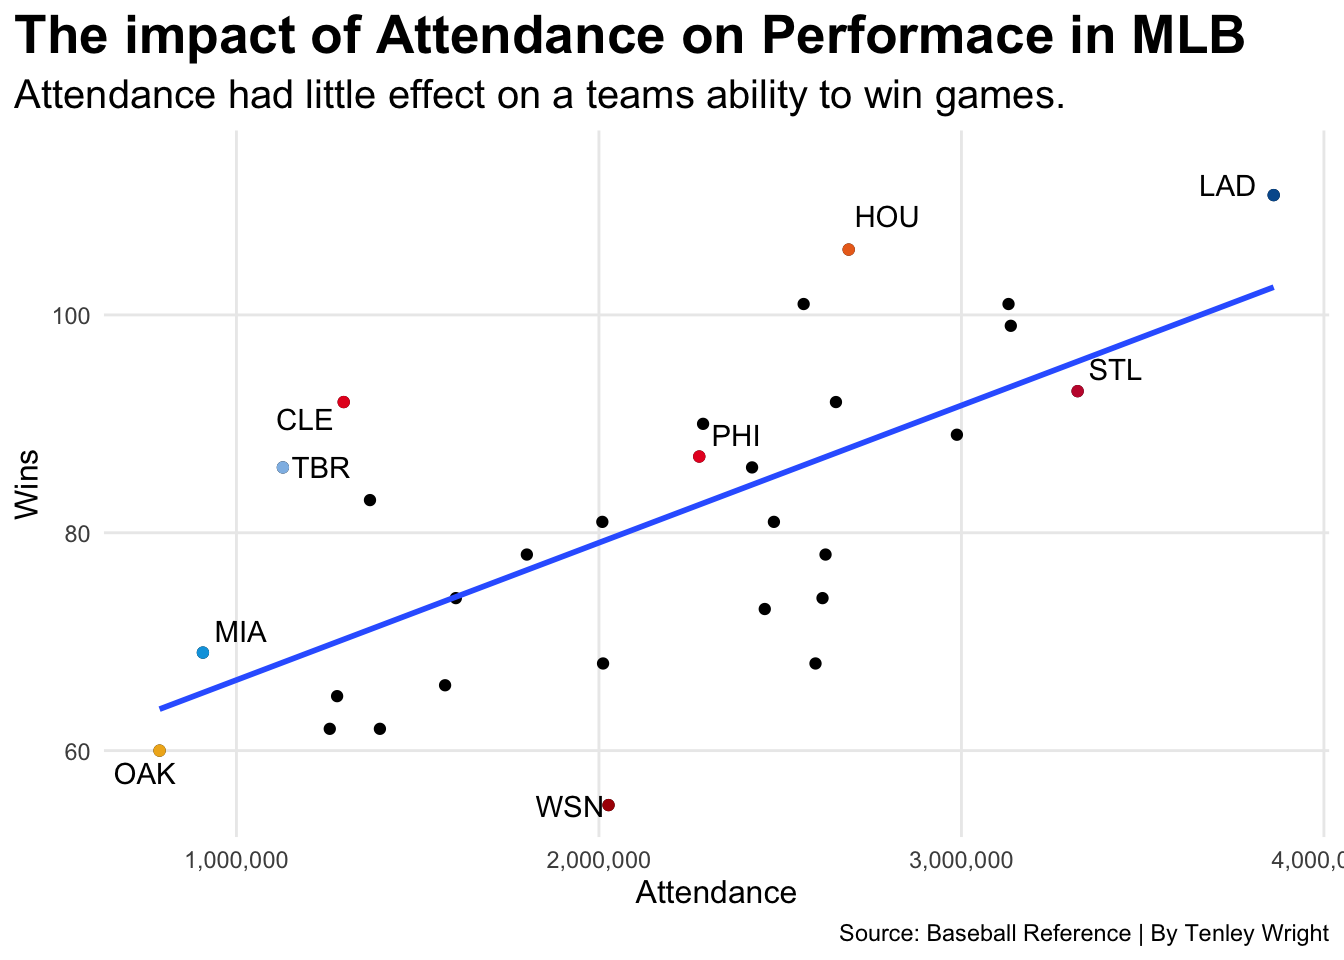
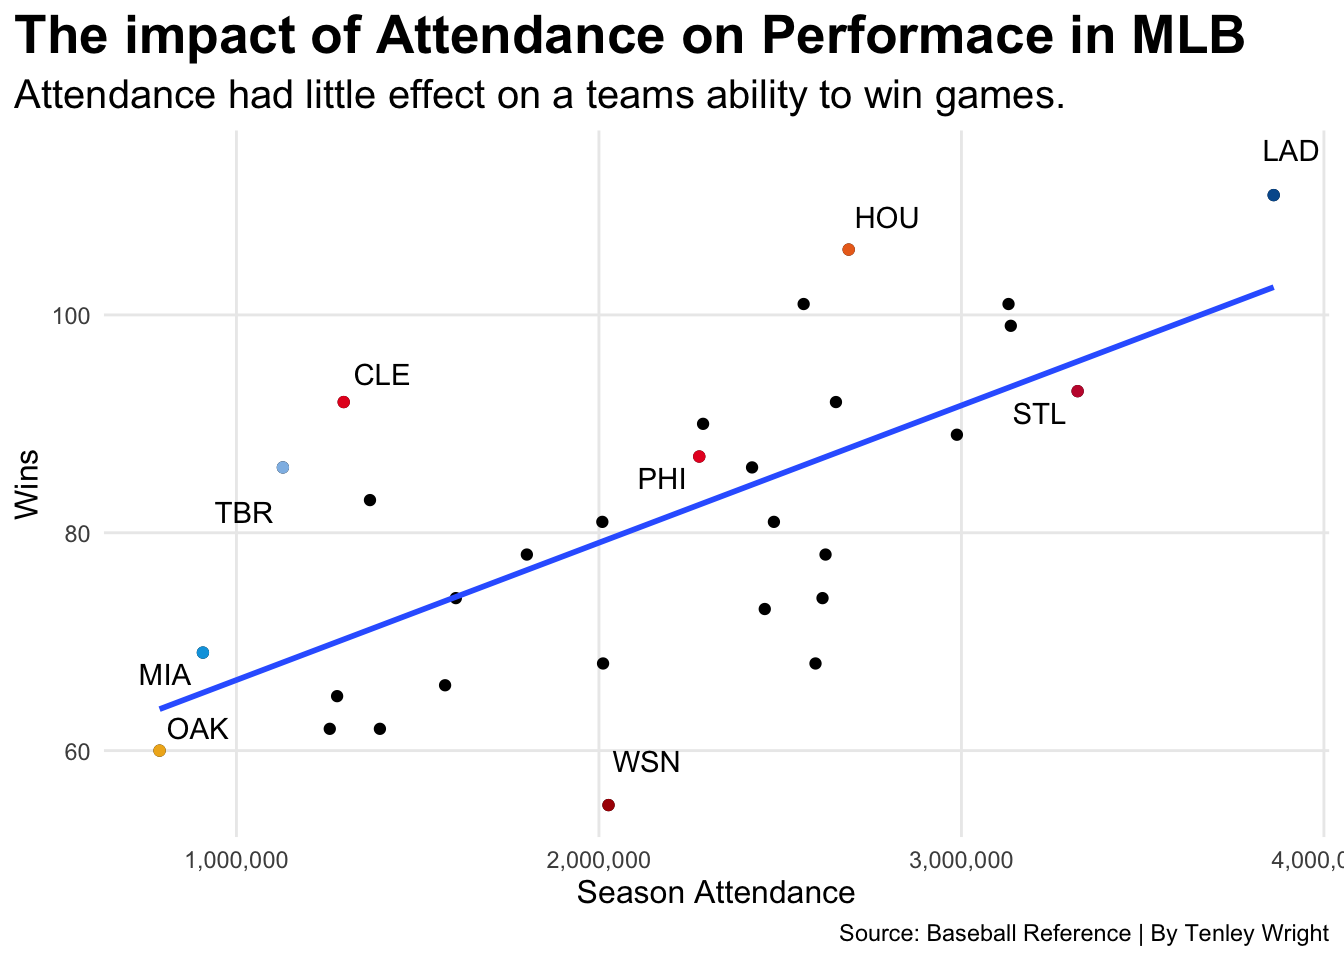
FINAL??
im so done with this

diff --git a/posts/does-attendance-impact-performace-in-the-mlb/index.html b/posts/does-attendance-impact-performace-in-the-mlb/index.html
@@ -294,7 +294,7 @@ code span.wa { color: #60a0b0; font-weight: bold; font-style: italic; } /* Warni
 <span id="cb1-70"><a href="#cb1-70" aria-hidden="true" tabindex="-1"></a>  <span class="fu">coord_flip</span>()<span class="sc">+</span></span>
 <span id="cb1-71"><a href="#cb1-71" aria-hidden="true" tabindex="-1"></a>  <span class="fu">labs</span>(</span>
 <span id="cb1-72"><a href="#cb1-72" aria-hidden="true" tabindex="-1"></a>    <span class="at">x=</span><span class="st">"Team"</span>, </span>
-<span id="cb1-73"><a href="#cb1-73" aria-hidden="true" tabindex="-1"></a>    <span class="at">y=</span><span class="st">"2022 Overall Attendance"</span>, </span>
+<span id="cb1-73"><a href="#cb1-73" aria-hidden="true" tabindex="-1"></a>    <span class="at">y=</span><span class="st">"Season Attendance"</span>, </span>
 <span id="cb1-74"><a href="#cb1-74" aria-hidden="true" tabindex="-1"></a>    <span class="at">title=</span><span class="st">"2022 MLB Average Attendance vs Individual Team Attendance"</span>, </span>
 <span id="cb1-75"><a href="#cb1-75" aria-hidden="true" tabindex="-1"></a>    <span class="at">subtitle=</span><span class="st">"How MLB an teams 2022 season attendance compares to the league average."</span>, </span>
 <span id="cb1-76"><a href="#cb1-76" aria-hidden="true" tabindex="-1"></a>    <span class="at">caption=</span><span class="st">"Source: Baseball Reference | By Tenley Wright"</span></span>
@@ -387,7 +387,7 @@ code span.wa { color: #60a0b0; font-weight: bold; font-style: italic; } /* Warni
 <span id="cb2-66"><a href="#cb2-66" aria-hidden="true" tabindex="-1"></a>  <span class="at">data=</span>WSN, </span>
 <span id="cb2-67"><a href="#cb2-67" aria-hidden="true" tabindex="-1"></a>    <span class="fu">aes</span>(<span class="at">x=</span><span class="st">`</span><span class="at">2022 Att</span><span class="st">`</span>, <span class="at">y=</span>W<span class="sc">+</span><span class="dv">2</span>, <span class="at">label=</span>Tm))<span class="sc">+</span></span>
 <span id="cb2-68"><a href="#cb2-68" aria-hidden="true" tabindex="-1"></a><span class="fu">labs</span>(</span>
-<span id="cb2-69"><a href="#cb2-69" aria-hidden="true" tabindex="-1"></a>    <span class="at">x=</span><span class="st">"Attendance"</span>, </span>
+<span id="cb2-69"><a href="#cb2-69" aria-hidden="true" tabindex="-1"></a>    <span class="at">x=</span><span class="st">"Season Attendance"</span>, </span>
 <span id="cb2-70"><a href="#cb2-70" aria-hidden="true" tabindex="-1"></a>    <span class="at">y=</span><span class="st">"Wins"</span>, </span>
 <span id="cb2-71"><a href="#cb2-71" aria-hidden="true" tabindex="-1"></a>    <span class="at">title=</span><span class="st">"The impact of Attendance on Performace in MLB"</span>, </span>
 <span id="cb2-72"><a href="#cb2-72" aria-hidden="true" tabindex="-1"></a>    <span class="at">subtitle=</span><span class="st">"Attendance had little effect on a teams ability to win games."</span>, </span>

diff --git a/index.html b/index.html
@@ -171,7 +171,7 @@ ul.task-list li input[type="checkbox"] {
 
 <div class="quarto-listing quarto-listing-container-default" id="listing-listing">
 <div class="list quarto-listing-default">
-<div class="quarto-post image-right" data-index="0" data-categories="Baseball,Code,Attendance" data-listing-date-sort="1681621200000" data-listing-file-modified-sort="1681623842273" data-listing-reading-time-sort="9.295">
+<div class="quarto-post image-right" data-index="0" data-categories="Baseball,Code,Attendance" data-listing-date-sort="1681621200000" data-listing-file-modified-sort="1681625845106" data-listing-reading-time-sort="9.295">
 <div class="thumbnail">
 <p><a href="./posts/does-attendance-impact-performace-in-the-mlb/index.html"> <img src="./posts/does-attendance-impact-performace-in-the-mlb/image.png" class="thumnail-image"> </a></p>
 </div>
